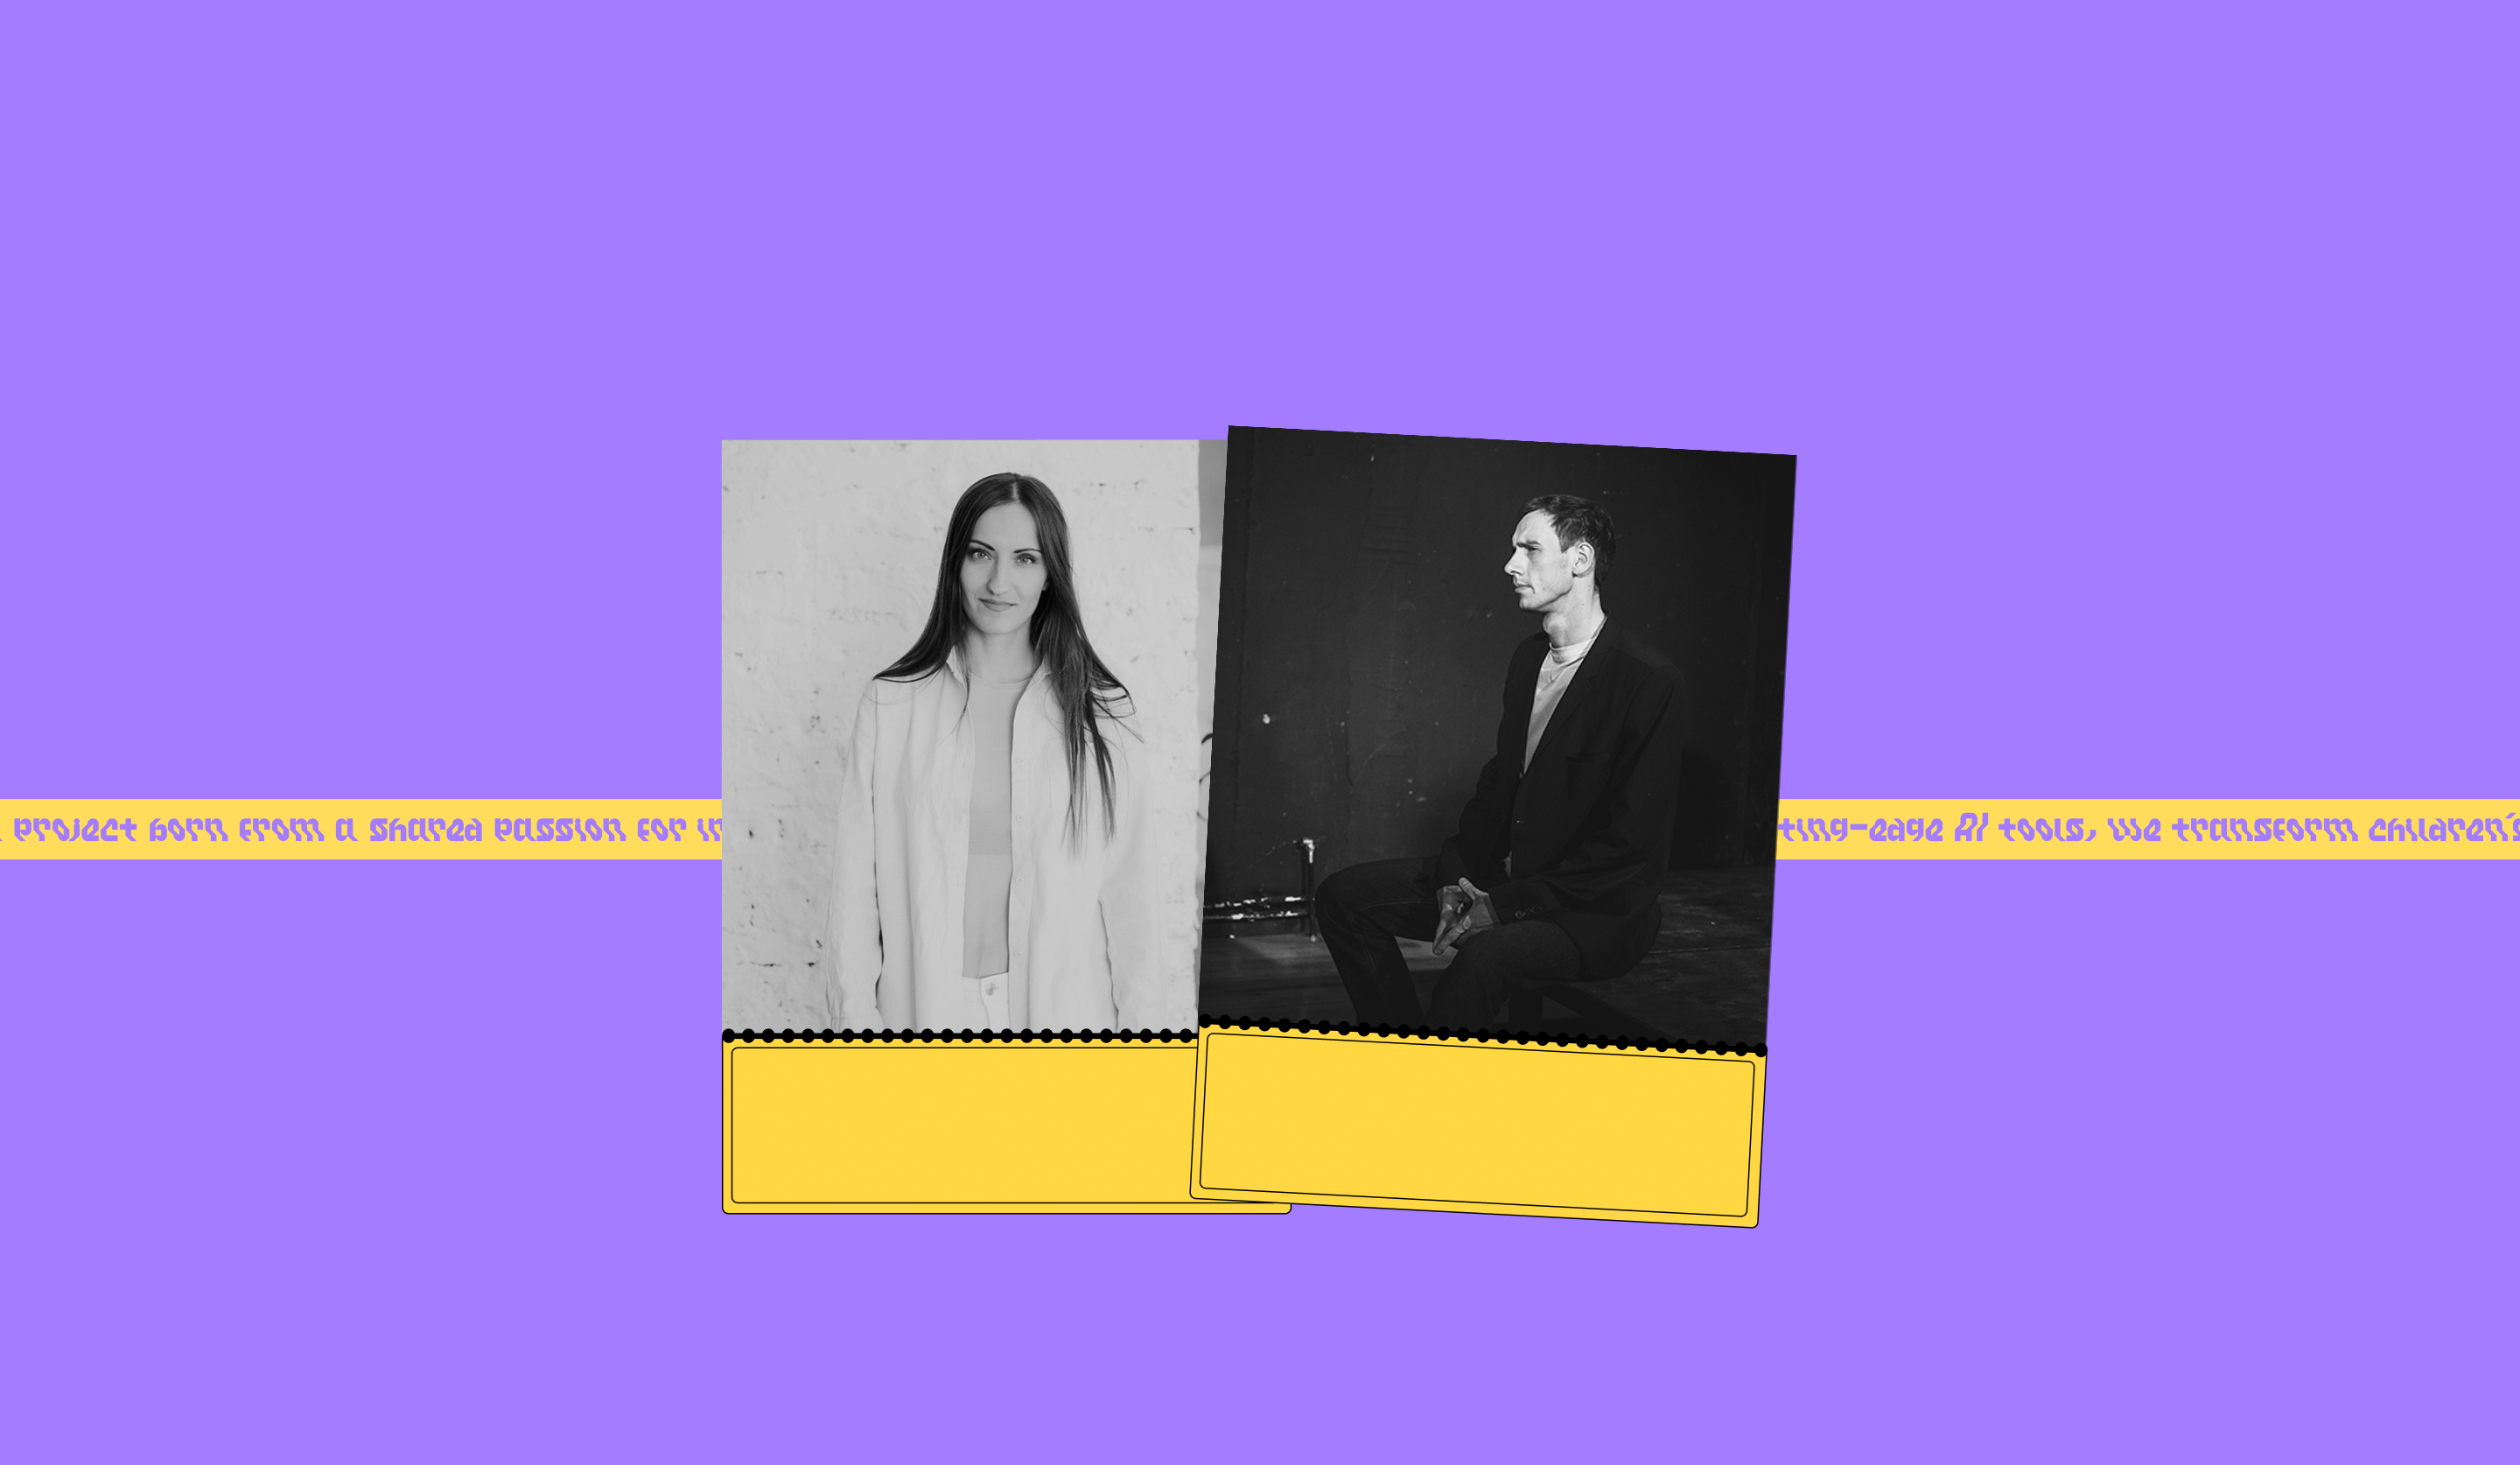
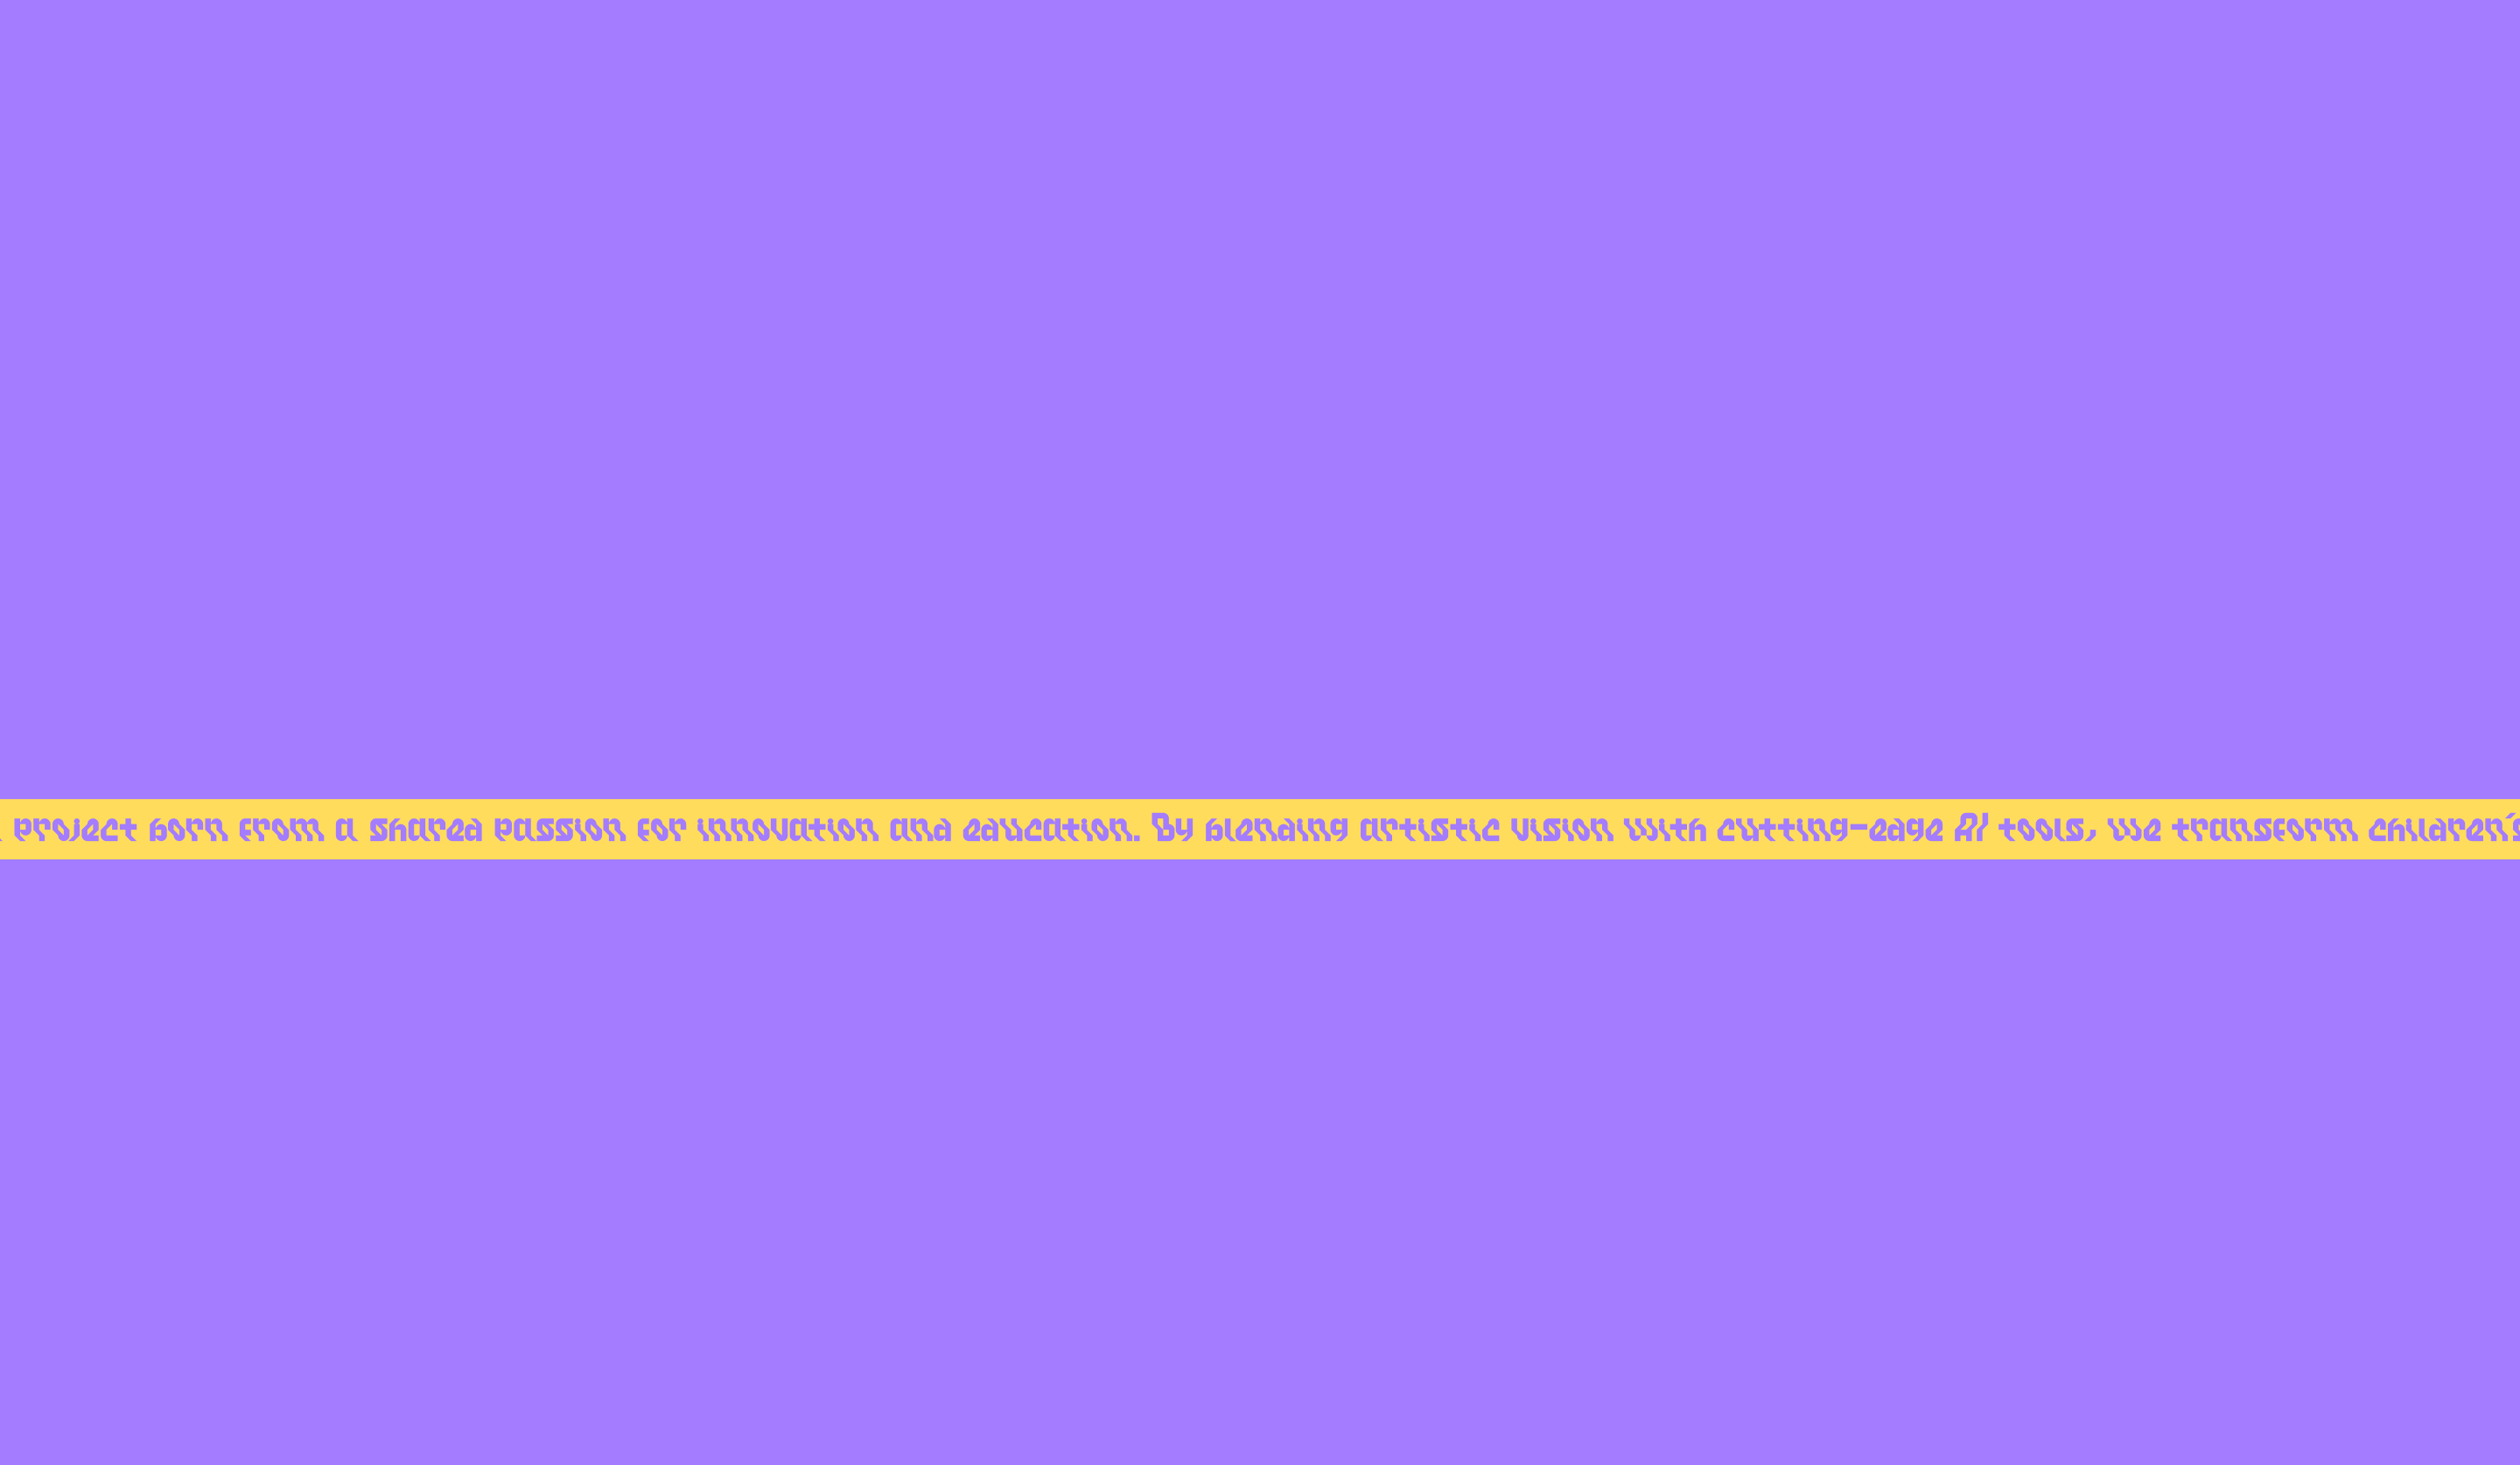
Add: reusable founders card

Changed region(s): [[0.2812, 0.2796, 0.7188, 0.8387]]

diff --git a/frontend/eureka-web/src/features/homePage/aboutUsSection/AboutUsContent.tsx b/frontend/eureka-web/src/features/homePage/aboutUsSection/AboutUsContent.tsx
@@ -1,38 +1,33 @@
-export interface AboutUsContentProps {
-  title: string;
-  subtitle?: string;
-  description?: string;
-}
+import FounderCard from '../../../components/ui/FounderCard.tsx';
+import ritaImg from '../../../assets/rita.png';
+import alekseiImg from '../../../assets/aleksei.png';
 
 function AboutUsContent( ) {
-  return (
-    <div
-      id="about"
-      className="absolute text-center top-8 sm:top-12 md:top-15 flex flex-col h-full px-4"
-    >
-      <div className="flex flex-col mt-8 sm:mt-12 md:mt-16">
-        <span className="font-kingfink text-transparent [-webkit-text-stroke:1.5px_#FFFFFF] text-xl sm:text-2xl">
-          FOUNDERS
-        </span>
-      </div>
+    return (
+      <div
+        id="about"
+        className="relative z-10 flex flex-col items-center w-full px-4 pt-20 sm:pt-24 md:pt-28"
+      >
+      <span className="font-kingfink text-transparent [-webkit-text-stroke:1.5px_#FFFFFF] text-xl sm:text-2xl mb-8 sm:mb-12 md:mb-16">
+        FOUNDERS
+      </span>
 
-      <div className="mt-56 sm:mt-72 md:mt-96 lg:mt-110 xl:mt-150 2xl:mt-250 xl:ml-[-10%] 2xl:ml-[-15%] grid grid-cols-1 sm:grid-cols-2 gap-4 sm:gap-8 md:gap-12 lg:gap-16 xl:gap-25 font-inter text-[#8658F1] leading-tight">
-        <p className="justify-self-start text-left">
-          <span className="font-bold text-lg sm:text-xl md:text-2xl">
-            Margarita Kattsyna
-          </span>
-          <br />
-          <span className="font-semibold text-base sm:text-lg md:text-xl">
-            Founder & Lead Engineer
-          </span>
-        </p>
-        <p className="justify-self-start text-left rotate-3">
-          <span className="font-bold text-lg sm:text-xl md:text-2xl">Aleksei Shchepin</span>
-          <br />
-          <span className="font-semibold text-base sm:text-lg md:text-xl">UX/UI Designer</span>
-        </p>
+        <div className="grid grid-cols-1 sm:grid-cols-2 w-full max-w-3xl mx-auto">
+          <FounderCard
+            image={ritaImg}
+            name="Margarita Kattsyna"
+            role="Founder & Lead Engineer"
+            className="justify-self-end -mr-8"
+          />
+          <FounderCard
+            image={alekseiImg}
+            name="Aleksei Shchepin"
+            role="UX/UI Designer"
+            className="justify-self-start -ml-8 rotate-3"
+          />
+        </div>
       </div>
-    </div>
-  );
-}
+    );
+  }
+
 export default AboutUsContent;

diff --git a/frontend/eureka-web/src/features/aboutUsPage/hero/AboutUsHeroContent.tsx b/frontend/eureka-web/src/features/aboutUsPage/hero/AboutUsHeroContent.tsx
@@ -1,39 +1,30 @@
-export interface AboutUsHeroContentProps {
-  title: string;
-  subtitle?: string;
-  description?: string;
-}
+import FounderCard from '../../../components/ui/FounderCard.tsx';
+import ritaImg from '../../../assets/rita.png';
+import alekseiImg from '../../../assets/aleksei.png';
 
 function AboutUsHeroContent() {
   return (
-    <div className="absolute items-center top-8 sm:top-12 md:top-15 flex flex-col w-full px-4">
-      <div className="flex flex-col mt-8 sm:mt-12 md:mt-16">
-        <span className="font-kingfink text-transparent [-webkit-text-stroke:1.5px_#FFFFFF] text-xl sm:text-2xl">
-          FOUNDERS
-        </span>
-      </div>
+    <div className="relative z-10 flex flex-col items-center w-full px-4 pt-20 sm:pt-24 md:pt-28">
+      <span className="font-kingfink text-transparent [-webkit-text-stroke:1.5px_#FFFFFF] text-xl sm:text-2xl mb-8 sm:mb-12 md:mb-16">
+        FOUNDERS
+      </span>
 
-      <div className="mt-56 sm:mt-72 md:mt-96 lg:mt-110 xl:mt-150 2xl:mt-250 xl:ml-[-10%] 2xl:ml-[-15%] grid grid-cols-1 sm:grid-cols-2 gap-4 sm:gap-8 md:gap-12 lg:gap-16 xl:gap-25 font-inter text-[#8658F1] leading-tight">
-        <p className="justify-self-start text-left">
-          <span className="font-bold text-lg sm:text-xl md:text-2xl mr-2 sm:mr-4 md:mr-10">
-            Margarita Kattsyna
-          </span>
-          <br />
-          <span className="font-semibold text-sm sm:text-base md:text-lg">
-            Founder & Lead Engineer
-          </span>
-        </p>
-        <p className="justify-self-start text-left rotate-3">
-          <span className="font-bold text-lg sm:text-xl md:text-2xl mr-2 sm:mr-3 md:mr-5">
-            Aleksei Shchepin
-          </span>
-          <br />
-          <span className="font-semibold text-sm sm:text-base md:text-lg">
-            UX/UI Designer
-          </span>
-        </p>
+      <div className="grid grid-cols-1 sm:grid-cols-2 w-full max-w-3xl mx-auto">
+        <FounderCard
+          image={ritaImg}
+          name="Margarita Kattsyna"
+          role="Founder & Lead Engineer"
+          className="justify-self-end -mr-8"
+        />
+        <FounderCard
+          image={alekseiImg}
+          name="Aleksei Shchepin"
+          role="UX/UI Designer"
+          className="justify-self-start -ml-8 rotate-3"
+        />
       </div>
     </div>
   );
 }
+
 export default AboutUsHeroContent;

diff --git a/frontend/eureka-web/src/components/ui/FounderCard.tsx b/frontend/eureka-web/src/components/ui/FounderCard.tsx
@@ -1,0 +1,34 @@
+interface FounderCardProps {
+  image: string;
+  name: string;
+  role: string;
+  rotate?: string;
+  className?: string;
+}
+
+function FounderCard({
+  image,
+  name,
+  role,
+  rotate = '',
+  className = "",
+}: FounderCardProps) {
+  return (
+    <div className={`flex flex-col ${rotate} ${className}`.trim()}>
+      {/* Photo */}
+      <img src={image} alt={name} className="w-full object-cover block" />
+
+      {/* Yellow name box — matches what you have in the screenshot */}
+      <div className="bg-[#FFDC5C] border-2 border-black p-3 sm:p-4">
+        <span className="font-inter font-bold text-lg sm:text-xl md:text-2xl text-purple-700 block">
+          {name}
+        </span>
+        <span className="font-inter font-semibold text-sm sm:text-base text-purple-700">
+          {role}
+        </span>
+      </div>
+    </div>
+  );
+}
+
+export default FounderCard;

diff --git a/frontend/eureka-web/src/root/Header.tsx b/frontend/eureka-web/src/root/Header.tsx
@@ -14,7 +14,7 @@ function Header() {
           <img
             src={logo}
             alt="Company Logo"
-            className="h-6 sm:h-6 md:h-8 lg:h-10 w-auto"
+            className="h-6 sm:h-6 md:h-6 lg:h-6 w-auto"
           />
         </Link>
 